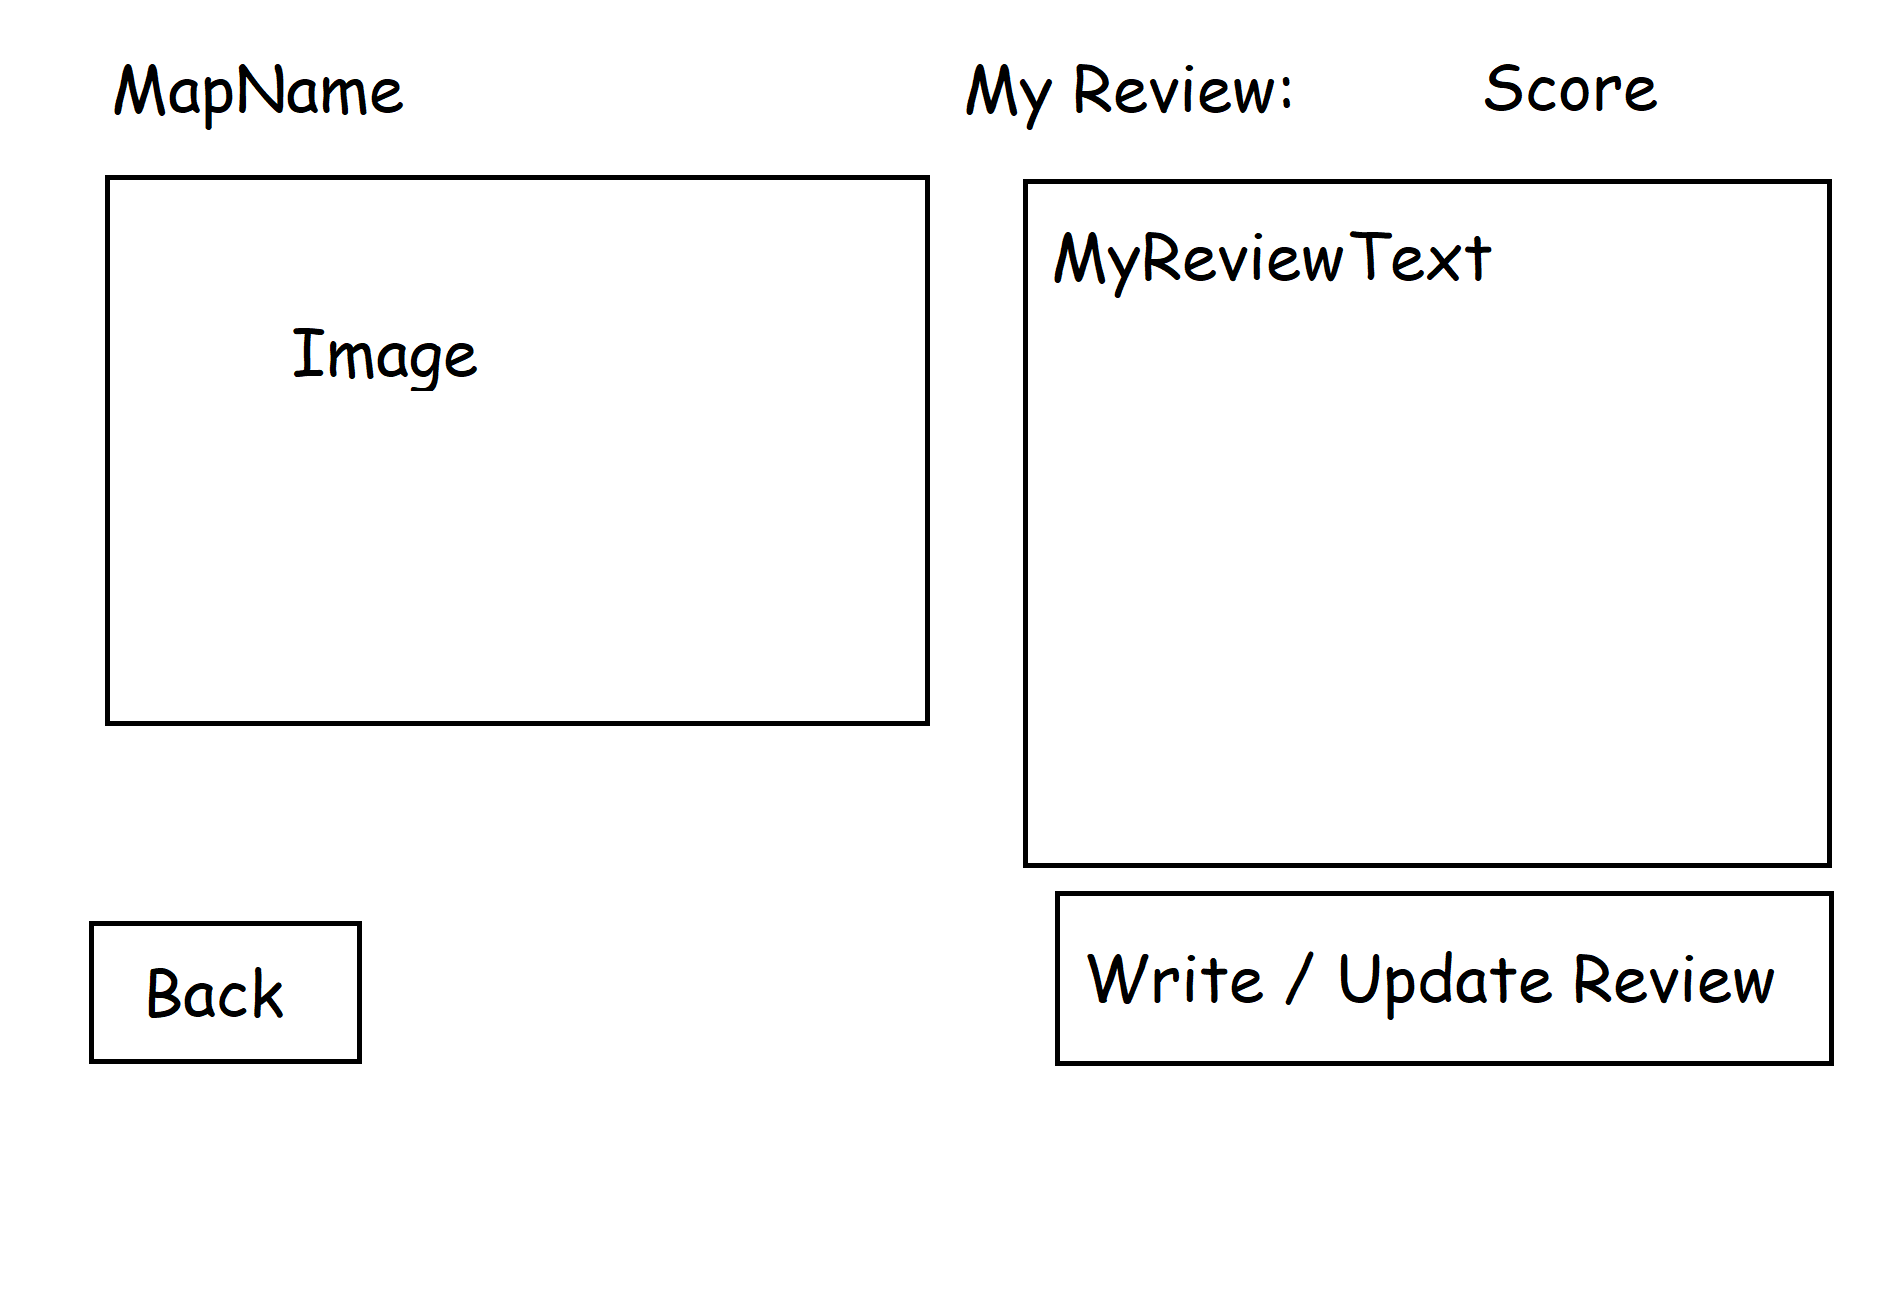
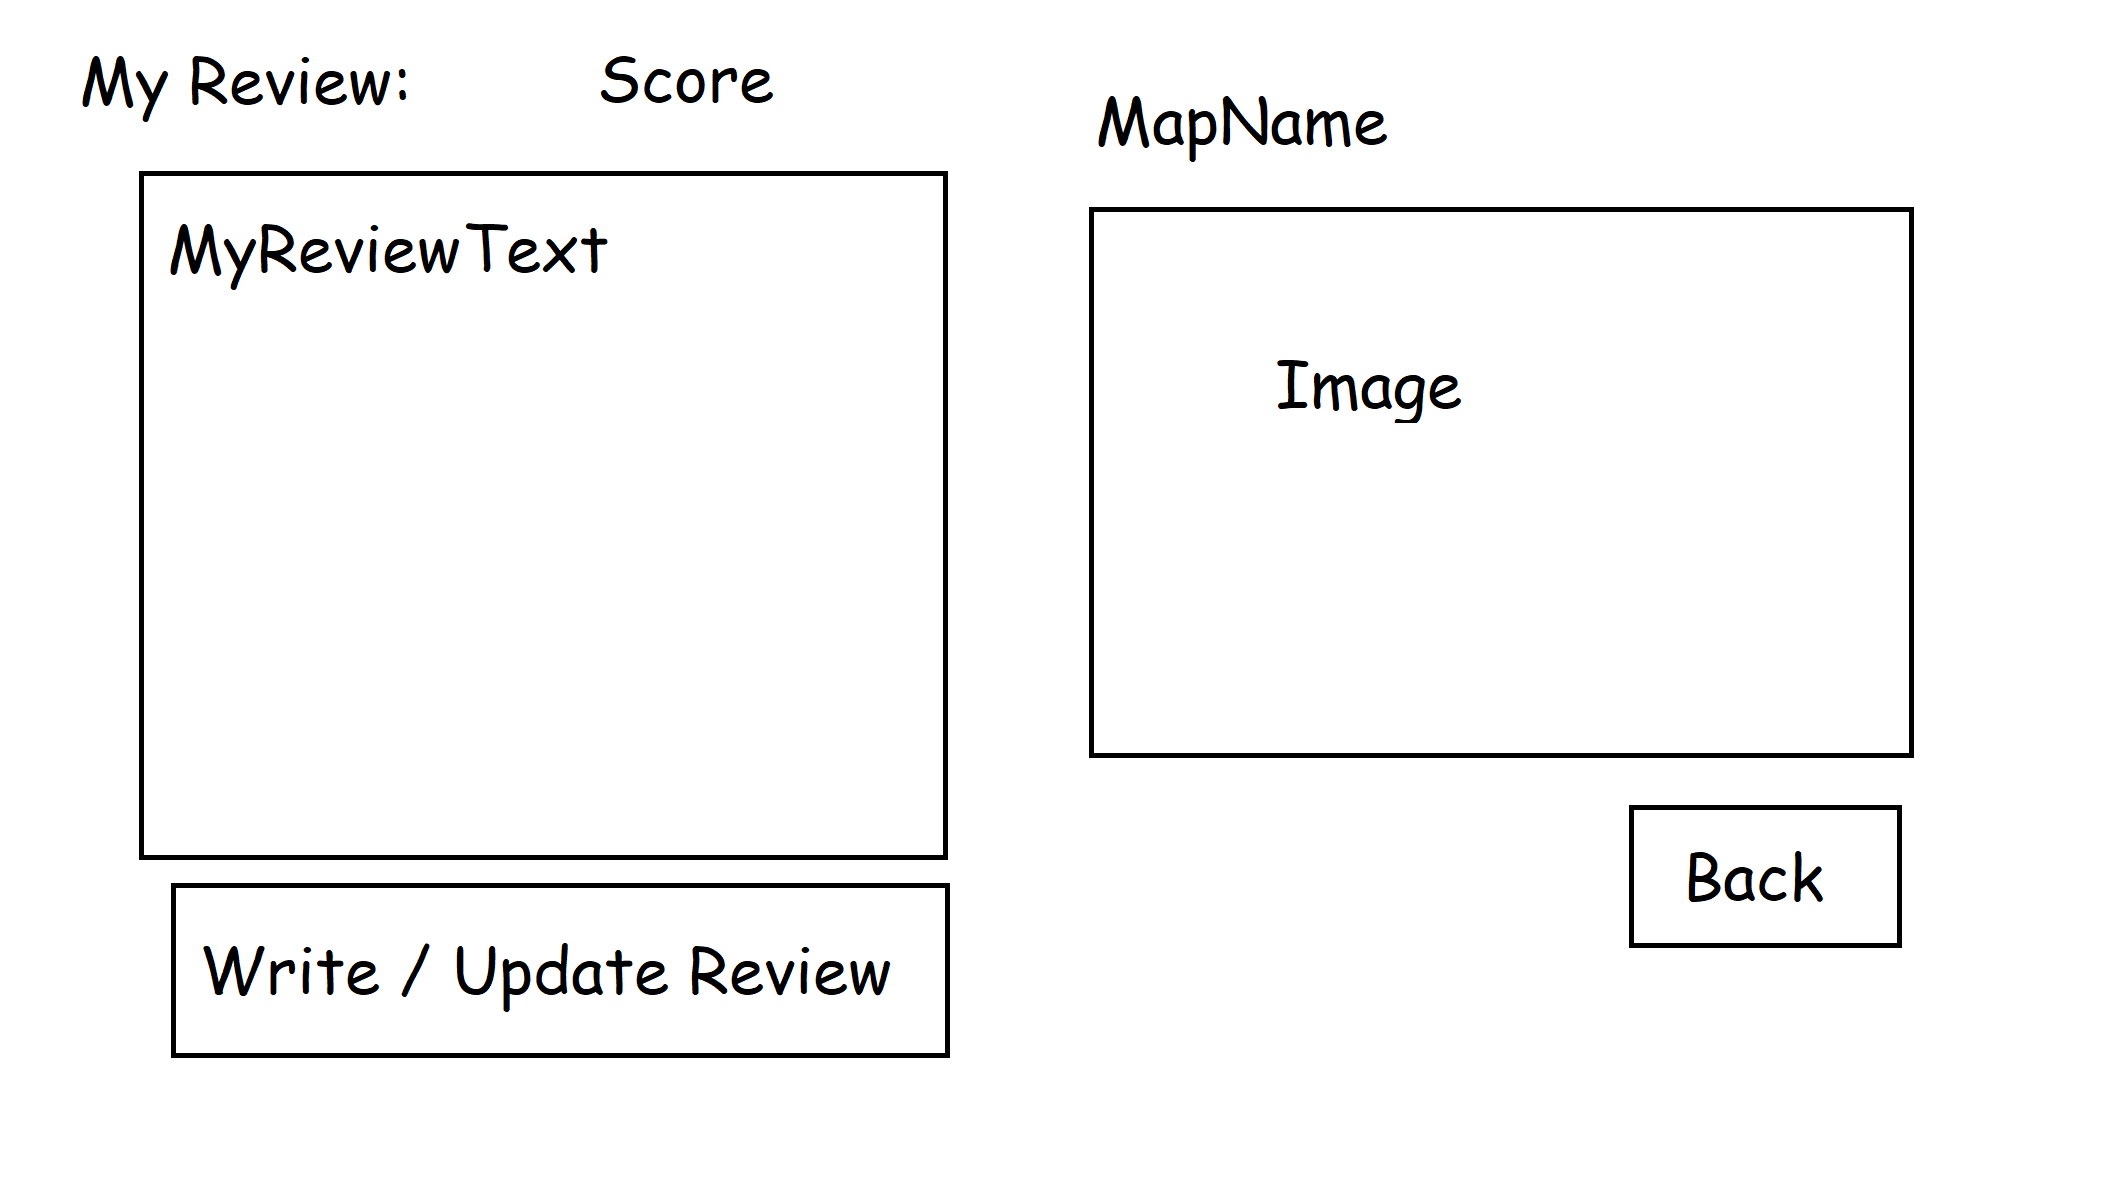
cleanup, comments, understanding

diff --git a/src/pages/MapsPage.jsx b/src/pages/MapsPage.jsx
@@ -2,39 +2,26 @@ import MapList from '../components/MapList.jsx';
 import Header from '../components/Header.jsx';
 import { useQuery } from '@tanstack/react-query';
 import { useState } from 'react';
-import { fetchMaps, mapCategories } from '../maps.js';
-// For fetch
+import { fetchMaps, mapCategories } from '../fetchmaps.js';
 
-function normalizeSearchText(value) { // Fix searches
+function fixSearchText(value) { // Fix searches
     return value.toLocaleLowerCase().replace(/[\s\p{P}\p{S}]/gu, '');
 }
 
-function CategoriesList() { // Build difficulty list for page
-    return (
-        <section aria-label="Map categories" className="mb-3">
-            <h2 className="h5">Categories</h2>
-            <ul className="list-inline mb-0">
-                {mapCategories.map(({ name, range }) => (
-                    <li className="list-inline-item" key={name}>
-                        <strong>{name}:</strong> {range}
-                    </li>
-                ))}
-            </ul>
-        </section>
-    );
-}
 
-export default function MapsPage() { // Page
-    const [search, setSearch] = useState('');  // Search
-    const { data: maps = [], isPending, error } = useQuery({
+
+
+export default function MapsPage() {
+    const [search, setSearch] = useState(''); // Create Search useState
+    const { data: maps = [], isPending, error } = useQuery({ // Async map data fetch with React-Query
         queryKey: ['maps'],
         queryFn: fetchMaps,
         staleTime: 5 * 60 * 1000,
     });
-    const searchTerm = normalizeSearchText(search);
+    const searchTerm = fixSearchText(search);
     const filteredMaps = maps.filter((map) =>
         [map.name, map.author]
-            .some((value) => value != null && normalizeSearchText(value).includes(searchTerm))
+            .some((value) => value != null && fixSearchText(value).includes(searchTerm))
     );
 
     return (
@@ -42,7 +29,6 @@ export default function MapsPage() { // Page
             <Header />
             <main className="container py-3 maps-page">
                 <aside className="maps-controls">
-                    <CategoriesList />
                     <div>
                         <label className="form-label" htmlFor="map-search">Search maps</label>
                         <input
@@ -56,11 +42,11 @@ export default function MapsPage() { // Page
                     </div>
                 </aside>
                 <section className="maps-results" aria-label="Map results">
-                    {isPending && <p role="status">Loading maps...</p>}
-                    {error && <p role="alert">{error.message}</p>}
-                    {!isPending && !error && maps.length === 0 && <p>No maps found.</p>}
-                    {!isPending && !error && maps.length > 0 && filteredMaps.length === 0 && <p>No maps match your search.</p>}
-                    {!isPending && !error && filteredMaps.length > 0 && <MapList maps={filteredMaps} />}
+                    {isPending && <p role="status">Loading maps...</p>} {/* Loading maps */}
+                    {error && <p role="alert">{error.message}</p>} {/* Failed to load maps */}
+                    {!isPending && !error && maps.length === 0 && <p>No maps found.</p>} {/* Empty searchbar and no results */}
+                    {!isPending && !error && maps.length > 0 && filteredMaps.length === 0 && <p>No maps match your search.</p>} {/* Too much searching */}
+                    {!isPending && !error && filteredMaps.length > 0 && <MapList maps={filteredMaps} />} {/* Maps shown if everything ready */}
                 </section>
             </main>
         </>

diff --git a/src/pages/MapInfoPage.jsx b/src/pages/MapInfoPage.jsx
@@ -2,7 +2,7 @@ import { useQuery } from '@tanstack/react-query';
 import { useParams } from 'react-router';
 import BackButton from "../components/BackButton.jsx";
 import MapImage from "../components/MapImage.jsx";
-import { fetchMaps } from '../maps.js';
+import { fetchMaps } from '../fetchmaps.js';
 import Header from "../components/Header.jsx"
 
 function MapInfoPage() {
@@ -17,22 +17,22 @@ function MapInfoPage() {
     return (
         <>
             <Header />
-            <main className="container py-3">
-                {isPending && <p role="status">Loading map...</p>}
-                {error && <p role="alert">{error.message}</p>}
-                {!isPending && !error && !map && <p role="alert">Map not found.</p>}
+            <main className="container py-3 flex-grow-1">
+                {isPending && <p role="status">Loading map...</p>} {/* Loading map */}
+                {error && <p role="alert">{error.message}</p>} {/* Error loading maps */}
+                {!isPending && !error && !map && <p role="alert">Map not found.</p>} {/* Map id not real */}
                 {map && (
                     <>
                         <h1>{map.name}</h1>
                         <div className="row g-3 align-items-stretch">
-                            <aside className="col-12 col-md-6" aria-label="Map thumbnail">
-                                <MapImage mapName={map.name} category={map.category} />
-                            </aside>
                             <section className="col-12 col-md-6" aria-label="Map information">
                                 <div className="map-info-placeholder h-100 border rounded">
                                     
                                 </div>
                             </section>
+                            <aside className="col-12 col-md-6" aria-label="Map thumbnail">
+                                <MapImage mapName={map.name} category={map.category} />
+                            </aside>
                         </div>
                     </>
                 )}

diff --git a/src/components/MapImage.jsx b/src/components/MapImage.jsx
@@ -1,6 +1,6 @@
 import { useEffect, useState } from 'react';
 
-const difficulties = {
+const difficulties = { // Legend for Vadi's maniacdn foldering
     Challenging: { id: '01', name: 'Challenging' },
     Expert: { id: '02', name: 'Expert' },
     Hardcore: { id: '03', name: 'Hardcore' },
@@ -39,16 +39,16 @@ const thumbnailFilenameOverrides = { //Exceptions bc Vadi messed up his filename
     'i.': 'i._tmtrial_1.jpg',
 };
 
-const thumbnailDifficultyOverrides = {
+const thumbnailDifficultyOverrides = { // Extra override for Feria, used to be Chall
     'Feria Sevilla': 'Challenging',
 };
 
-const thumbnailAspectRatios = [
+const thumbnailAspectRatios = [ // Two possible aspect ratios to respect thumbnails
     { css: '5 / 2', value: 5 / 2 },
     { css: '16 / 9', value: 16 / 9 },
 ];
 
-function toImageFilename(mapName) {
+function toImageFilename(mapName) { // Legend to clean up map names to get name for file
     return mapName
         .normalize('NFKD')
         .replace(/\p{Diacritic}/gu, '')
@@ -58,18 +58,18 @@ function toImageFilename(mapName) {
         .replace(/^_+|_+$/gu, '');
 }
 
-function getThumbnailFilename(mapName) {
+function getThumbnailFilename(mapName) { // Get image file names
     return thumbnailFilenameOverrides[mapName] ?? `${toImageFilename(mapName)}_tmtrial_1.jpg`;
 }
 
-function MapImage({ mapName, category }) {
+function MapImage({ mapName, category }) { // Fetch image from maniacdn
     const [loadedImage, setLoadedImage] = useState(null);
     const difficulty = difficulties[thumbnailDifficultyOverrides[mapName] ?? category];
     const imageUrl = difficulty && mapName
         ? `http://maniacdn.net/vad1/trialsite_rebuild/List_Hardest/List_Hardest_${difficulty.id}_${difficulty.name}/${getThumbnailFilename(mapName)}`
         : null;
 
-    useEffect(() => {
+    useEffect(() => { // Load / Error callbacks
         if (!imageUrl) return undefined;
 
         let isCurrent = true;

diff --git a/src/fetchmaps.js b/src/fetchmaps.js
@@ -10,7 +10,7 @@ export const mapCategories = [
 const sheetId = '1TSgZRs_AT2Six0HaJXTWfQCsSmFu8RNKhK5MM4xIAhQ';
 const sheetGid = '1676223853';
 
-export async function fetchMaps() {
+export async function fetchMaps() { // Fetch maps from Google Sheets
     const url = new URL(`https://docs.google.com/spreadsheets/d/${sheetId}/gviz/tq`);
     url.searchParams.set('tqx', 'out:json');
     url.searchParams.set('gid', sheetGid);
